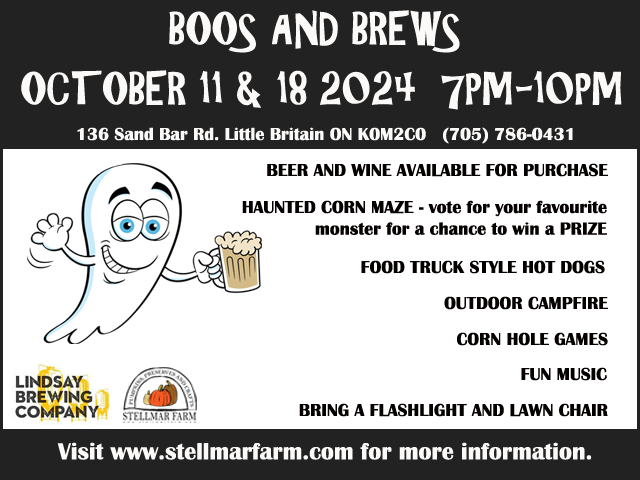
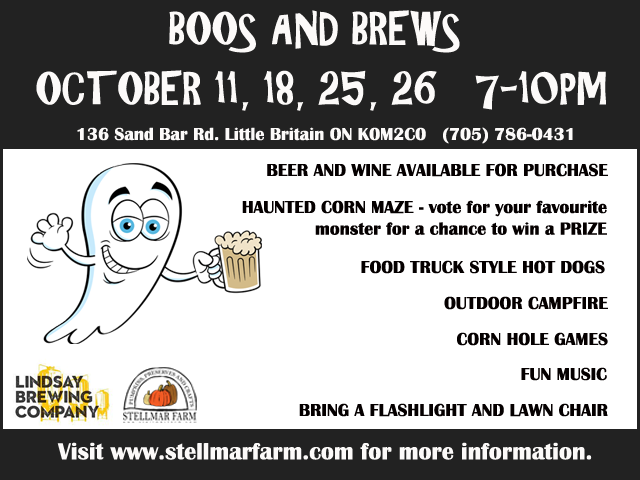
file updates boosandbrews2024

Changed region(s): [[0.0312, 0.125, 0.9688, 0.25]]

diff --git a/src/index.html b/src/index.html
@@ -39,7 +39,7 @@
                             class="ms-2 font-semibold text-gray-500 dark:text-gray-400"> est. 1999</small></h2>
                     <p class="my-4 text-lg text-white">Giant pumpkins, haunted corn maze, jack-o-lanterns,
                         preserves, fall crafts and decor.</p>
-                        <p class="text-4xl font-semibold text-white dark:text-gray-400">Opening September 13, 2024.</p>
+                        <p class="text-4xl font-semibold text-white dark:text-gray-400">Boos and Brews. Oct 25, 26 7-10pm $10 cover.</p>
                         <div class="justify-center p-8">
                             <img class="rounded" src="images/stellmarfarm-logo.png">
                         </div>
